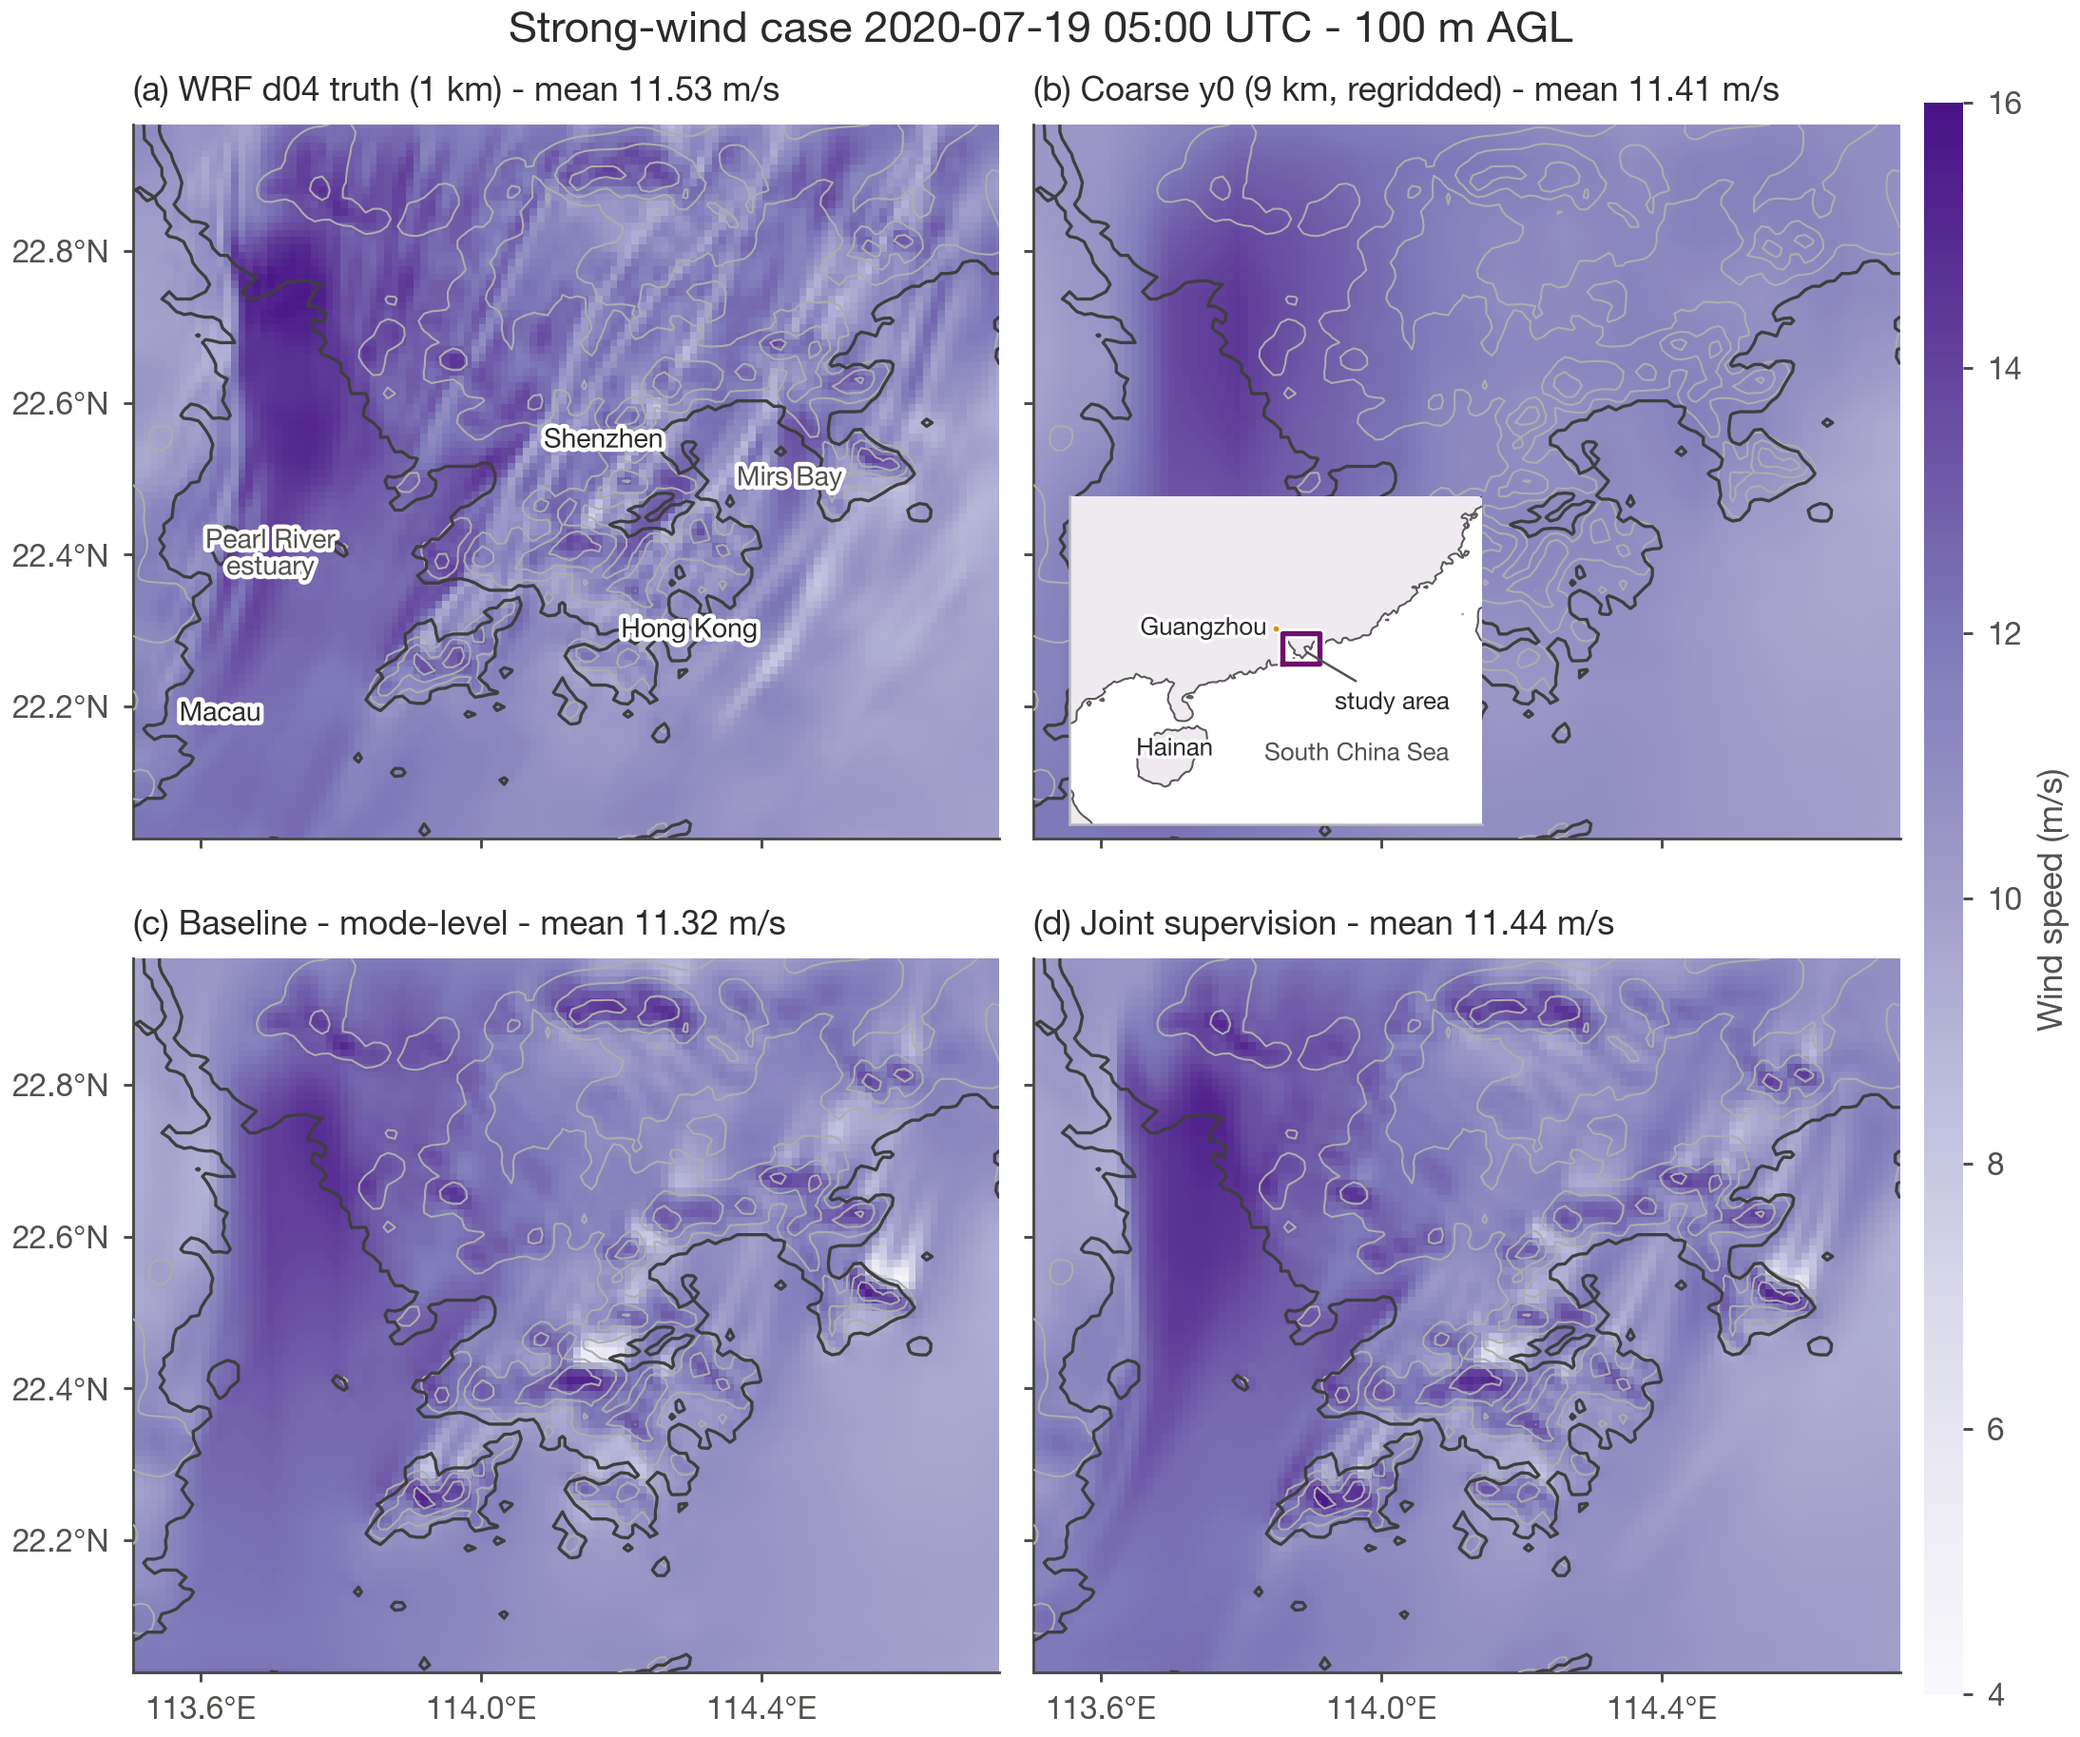
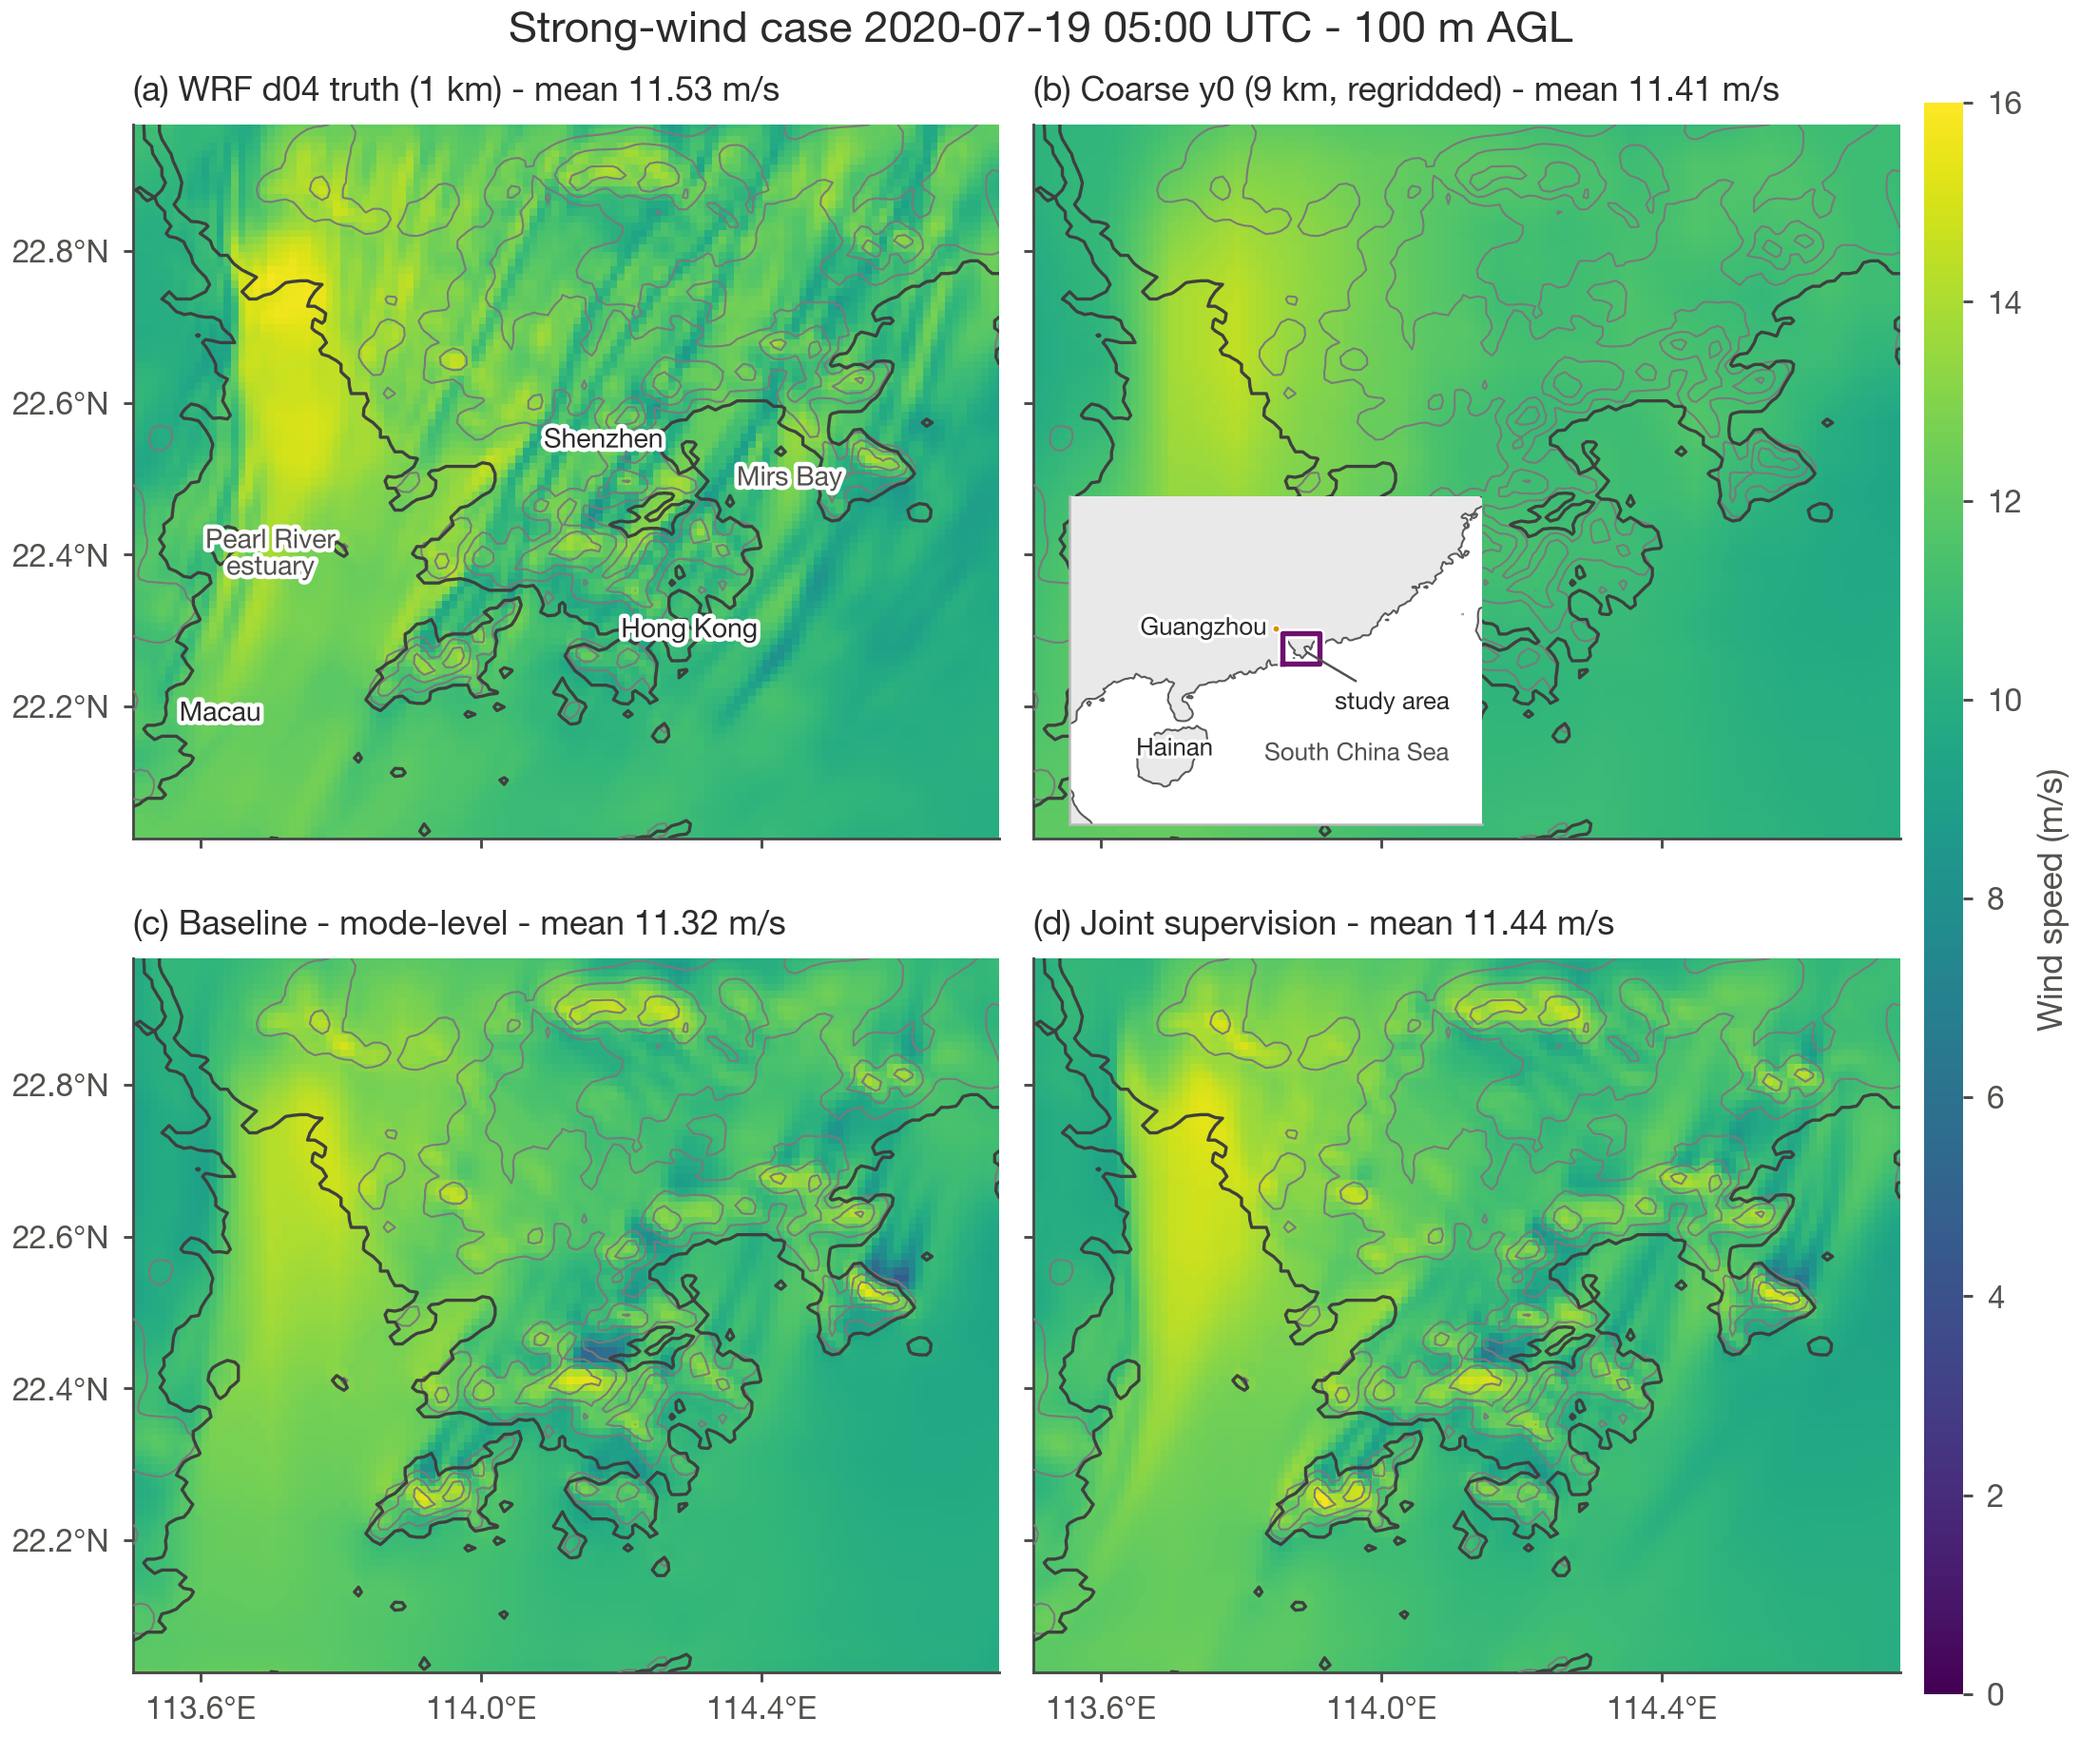
report 10-09: case figure keeps original viridis colormap (per user); geo context retained
- wind speed fields back to viridis vmin=0 (brand purple rejected for this figure);
  purple only remains on UI annotations (locator study-domain box)
- locator land fill neutralized (grey) to sit under the viridis panels
- terrain contours grey (readable on viridis greens/yellows)

diff --git a/scripts/plot_report_10_09.py b/scripts/plot_report_10_09.py
@@ -3,7 +3,8 @@
 
 - 图内文字全部英文,风格对齐 组会汇报/模范图片/(fig_common 设计系统):
   见 scripts/figstyle.py(NJU 紫主色/字号 token/白底淡化轴线)
-- 个例图(fig_case*)加真实经纬度坐标轴 + 海岸线 + 地名,并带华南区位小图
+- 个例图(fig_case*)加真实经纬度坐标轴 + 海岸线 + 地名,并带华南区位小图;
+  风速场保留原 viridis 色标(非品牌紫,用户 2026-10-14 定)
 - 本地运行:/opt/anaconda3/envs/d2l/bin/python scripts/plot_report_10_09.py
 - 输出:组会汇报/2026-10-09/fig_*.png(文件名与报告引用保持一致)
 """
@@ -17,6 +18,7 @@ import numpy as np
 
 sys.path.insert(0, os.path.dirname(os.path.abspath(__file__)))
 import matplotlib.pyplot as plt  # noqa: E402
+from matplotlib.colors import ListedColormap  # noqa: E402
 from matplotlib.lines import Line2D  # noqa: E402
 from matplotlib.ticker import FuncFormatter  # noqa: E402
 import figstyle as fs  # noqa: E402
@@ -382,8 +384,8 @@ def fig_cases(case=0, agl=100.0):
         u = d["case{}_{}_u".format(case, key)][li]
         v = d["case{}_{}_v".format(case, key)][li]
         fields[key] = np.sqrt(u ** 2 + v ** 2)
-    vmin = np.floor(min(f.min() for f in fields.values()) * 2.0) / 2.0
-    vmax = np.ceil(max(f.max() for f in fields.values()) * 2.0) / 2.0
+    vmin = 0.0
+    vmax = float(np.ceil(max(f.max() for f in fields.values())))
     stamp = str(d["case{}_stamp".format(case)][0])
     m = re.search(r"(\d{8})T?(\d{4})", stamp)
     stamp_lab = ("{}-{}-{} {}:{} UTC".format(
@@ -406,13 +408,14 @@ def fig_cases(case=0, agl=100.0):
     asp = 1.0 / np.cos(np.deg2rad(float(np.mean(xlat))))
     xt = [113.6, 114.0, 114.4]
     yt = [22.2, 22.4, 22.6, 22.8]
-    cmap = fs.seq_purple()
+    # 个例图沿用原 viridis 色标(用户 2026-10-14 定:风速场不用品牌紫,
+    # 紫色仅留在区位图研究域方框等界面注记上)
     im = None
     for j, (ax, (key, lab)) in enumerate(zip(axs.ravel(), srcs)):
-        im = ax.pcolormesh(xlon, xlat, fields[key], cmap=cmap, vmin=vmin,
+        im = ax.pcolormesh(xlon, xlat, fields[key], cmap="viridis", vmin=vmin,
                            vmax=vmax, shading="nearest", rasterized=True)
         ax.contour(xlon, xlat, hgt, levels=[50, 200, 400],
-                   colors=[fs.GREY_LIGHT], linewidths=0.5, zorder=3)
+                   colors=[fs.GREY], linewidths=0.5, zorder=3)
         ax.contour(xlon, xlat, water, levels=[0.5], colors=[fs.COAST],
                    linewidths=0.8, zorder=4)
         ax.set_xlim(float(xlon.min()), float(xlon.max()))
@@ -456,7 +459,7 @@ def fig_cases(case=0, agl=100.0):
     lon_c = st["xlong_coarse"][0, :]
     wc = st["water_coarse"]
     axi.pcolormesh(lon_c, lat_c, (wc < 0.5).astype(float),
-                   cmap=fs.land_sea_cmap(), vmin=0, vmax=1,
+                   cmap=ListedColormap(["#FFFFFF", "#E9E9E9"]), vmin=0, vmax=1,
                    shading="nearest", rasterized=True)
     axi.contour(lon_c, lat_c, wc, levels=[0.5], colors=["#5A5A5A"],
                 linewidths=0.5)
